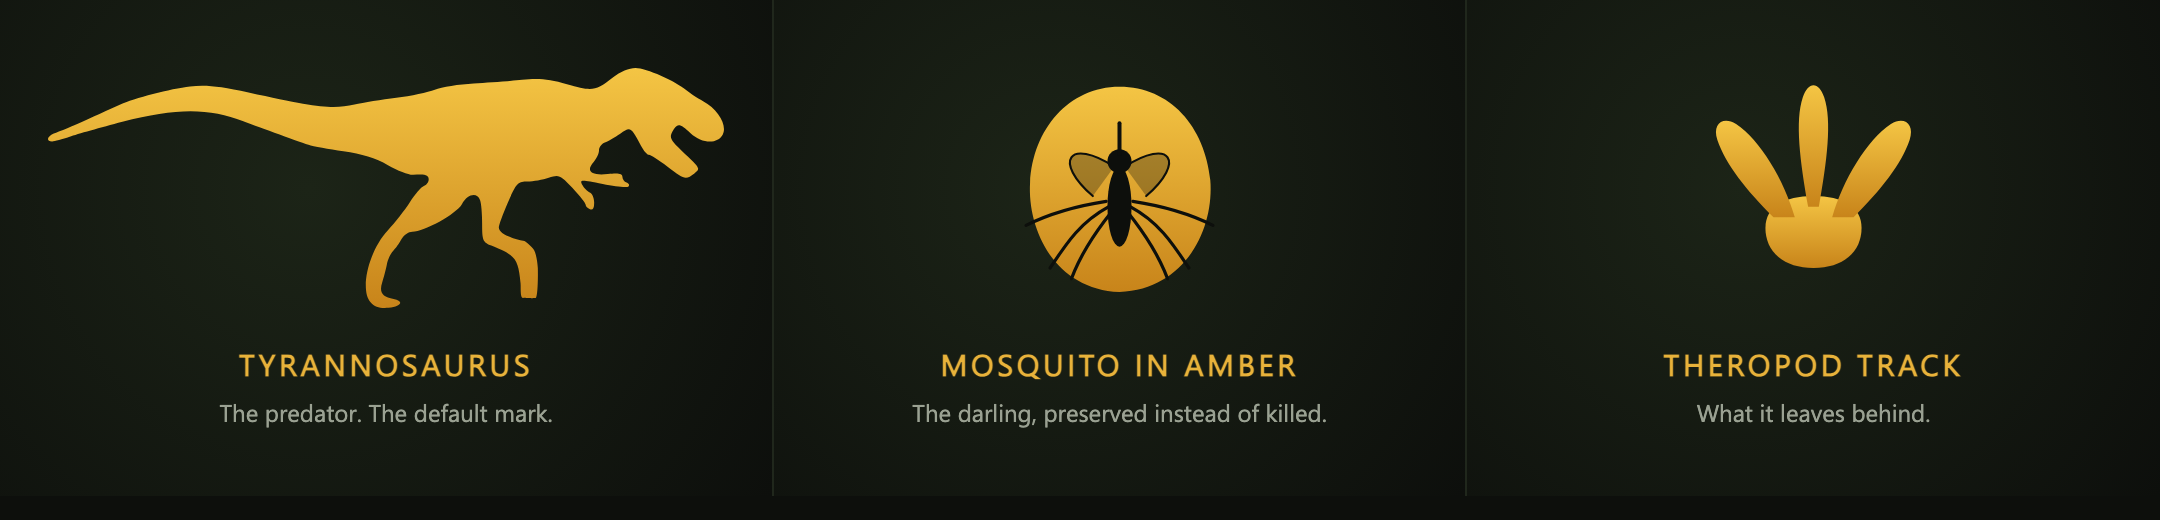
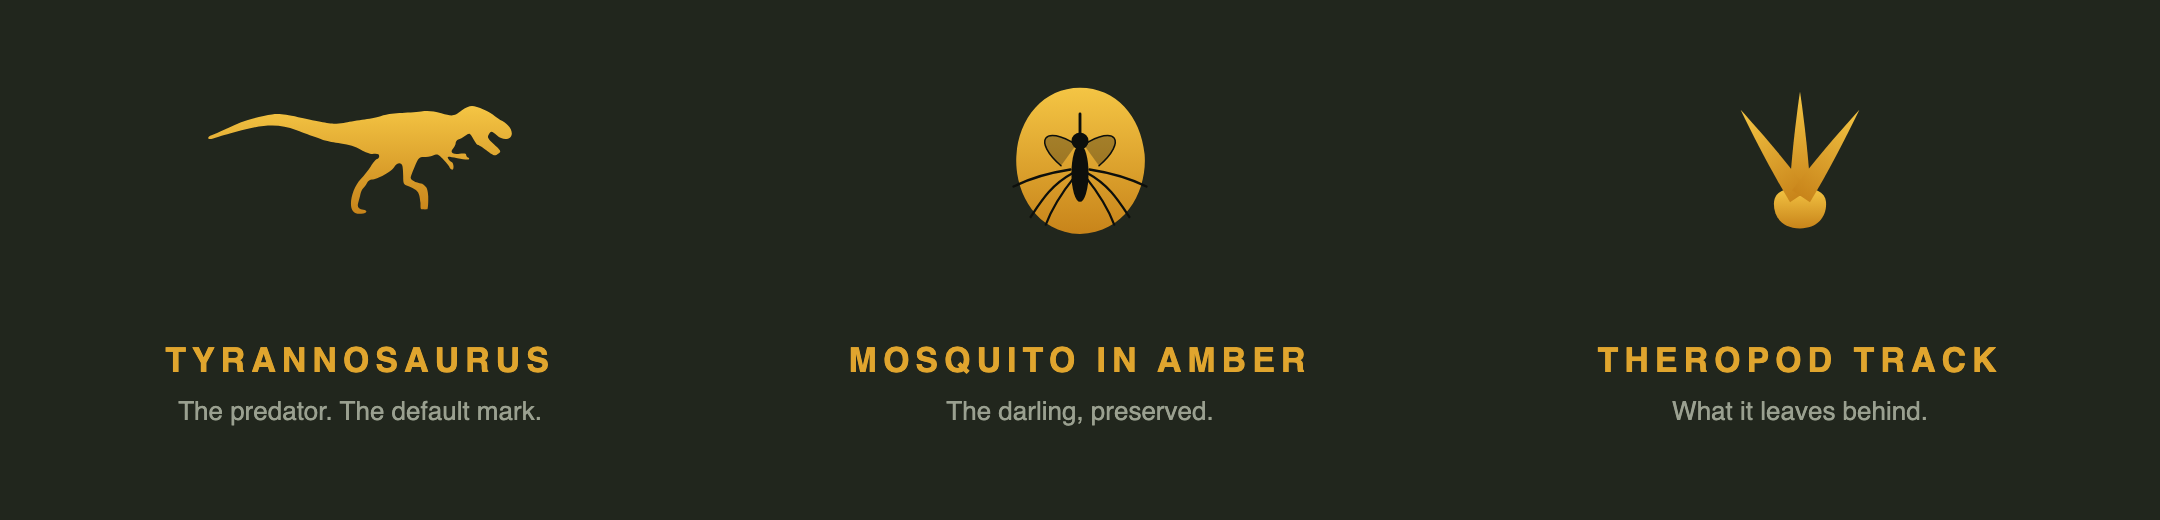
v1.11.0: redraw theropod-track mark as a real footprint
The old mark read as a flower/paw (rounded blobs on a round base). Redrawn as
a three-toed predator track: slender splayed claws over a heel pad. Regenerated
docs/marks.png so all three marks match.

diff --git a/CHANGELOG.md b/CHANGELOG.md
@@ -4,6 +4,14 @@ All notable changes to this project are documented here. The format follows
 [Keep a Changelog](https://keepachangelog.com/), and this project uses
 [Semantic Versioning](https://semver.org/).
 
+## [1.11.0] - 2026-06-26
+
+### Fixed
+- **Theropod track mark.** The old `theropod-track.svg` read as a flower or paw
+  (three rounded blobs on a round base). Redrawn as a real three-toed predator
+  footprint: slender splayed claws over a heel pad. Regenerated the `docs/marks.png`
+  showcase so all three marks match.
+
 ## [1.10.0] - 2026-06-26
 
 ### Added